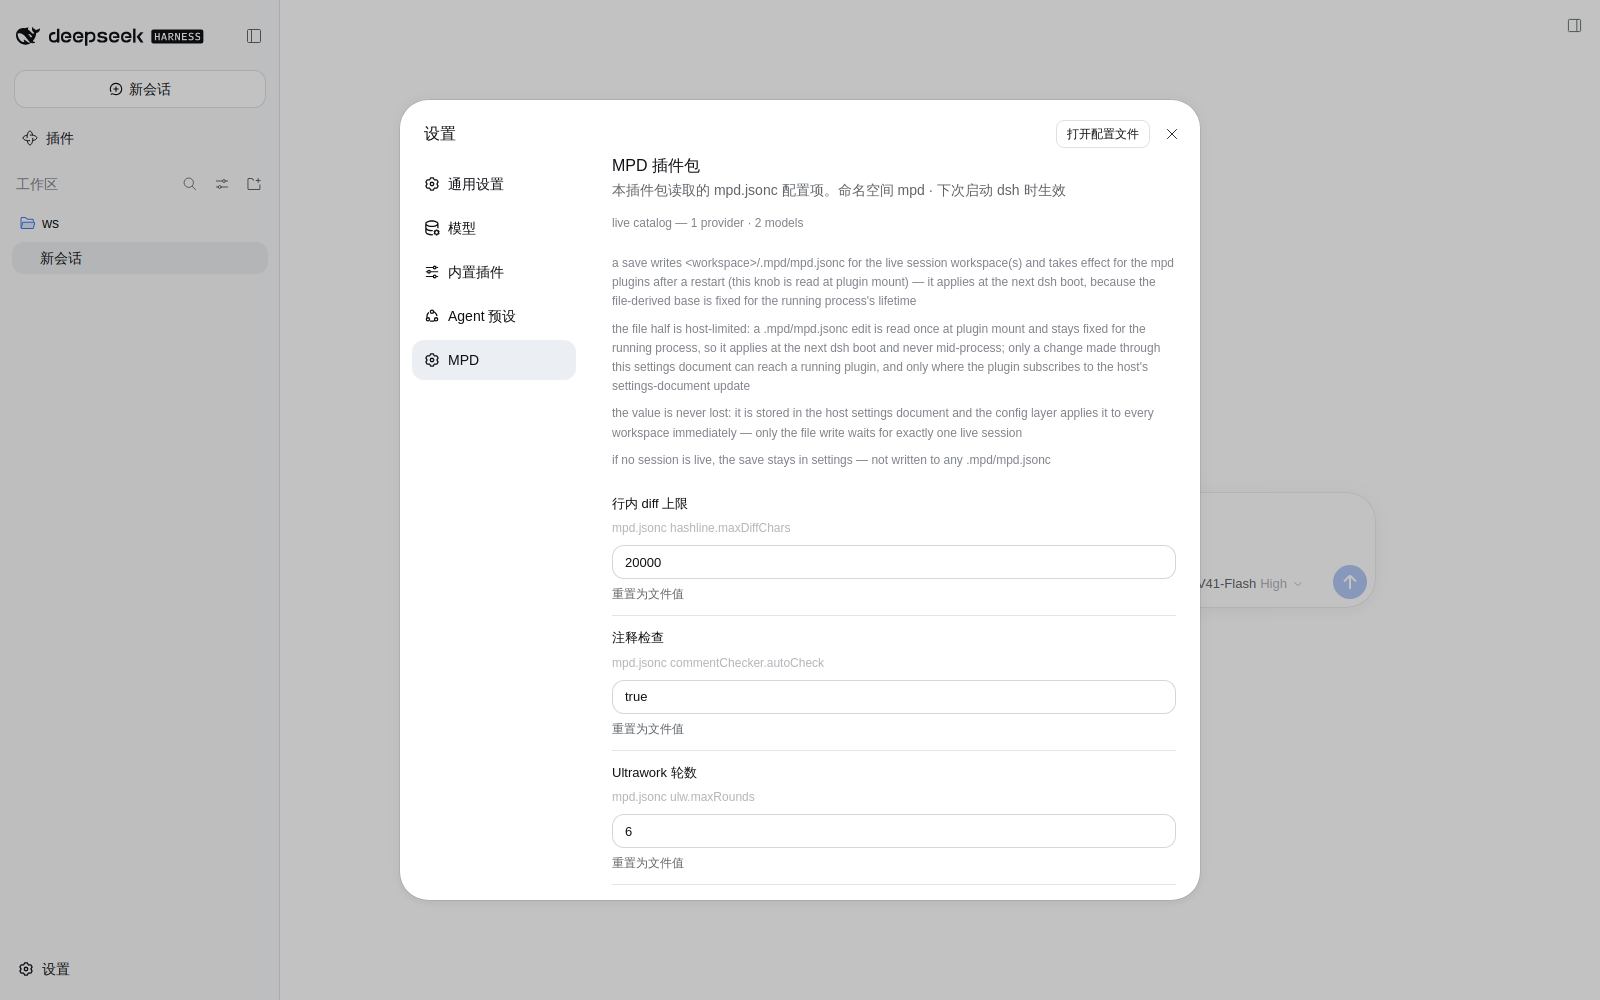
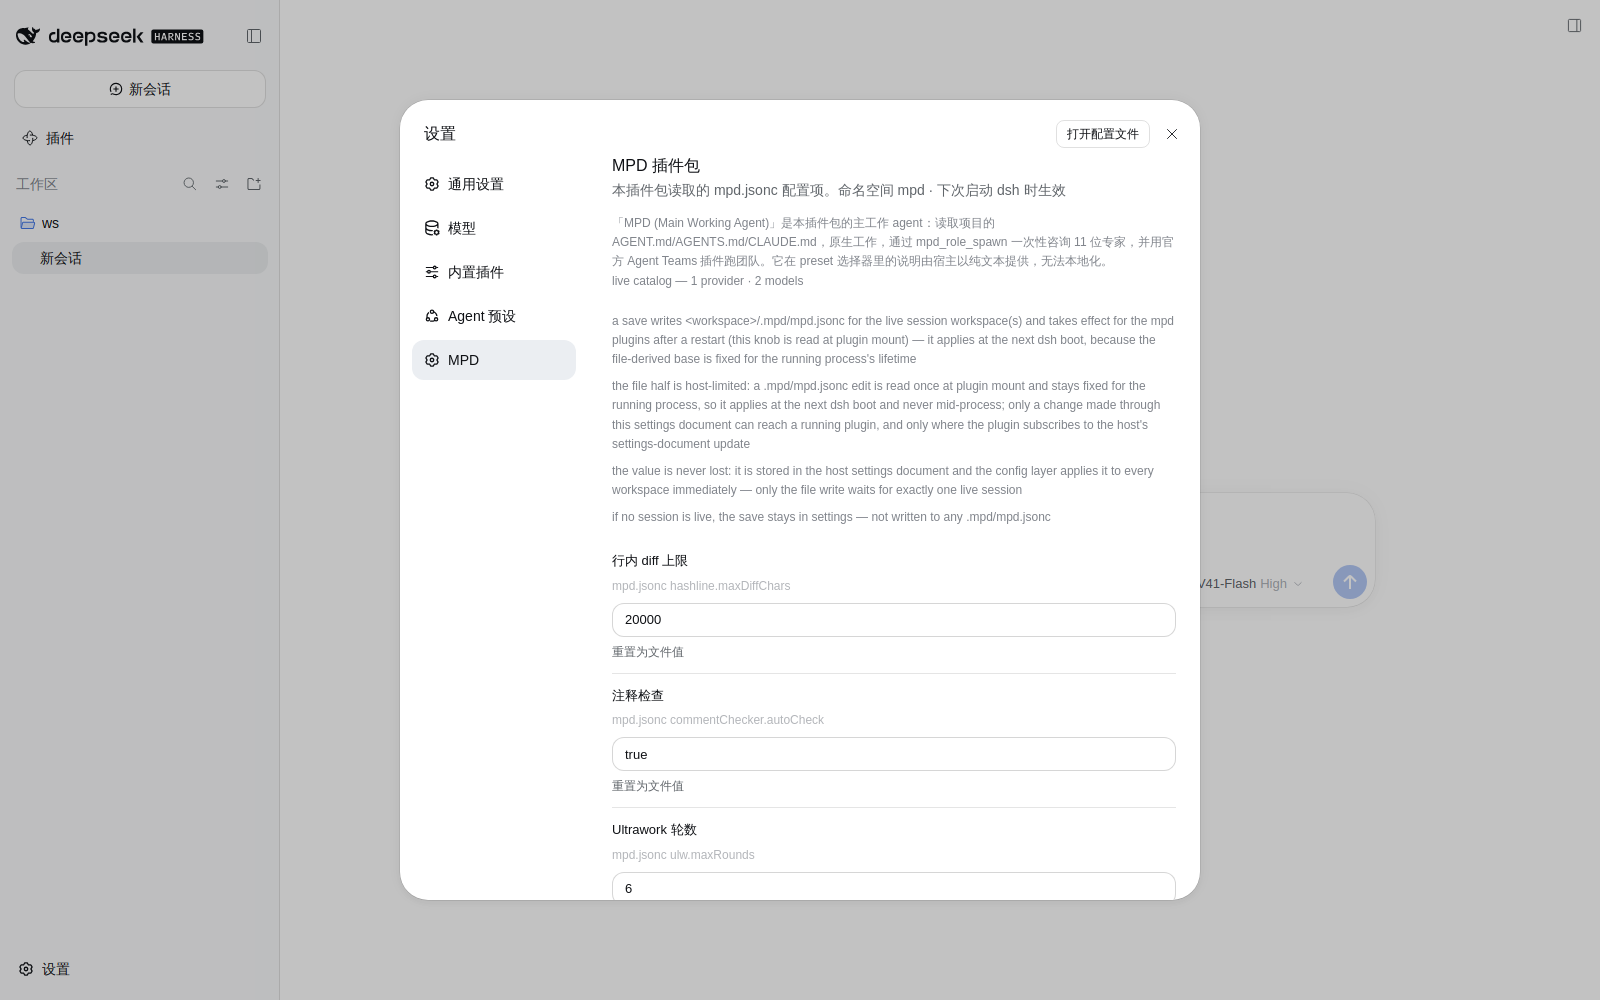
fix(capture): seed the board AFTER the panel opens, and assert the graph it drew
The driver learned the panel's session id at the END of step 06 and then needed it at the START
of step 07 — a precondition that can only hold by luck, and on the re-created container it did
not: the panel rendered its empty state while every step reported success. The seed is now its
own step BETWEEN them, and it asserts the thing that actually matters — the graph is on screen.

Measured while fixing it, and why the step does not DEPEND on the observation: the panel's own
request does not always name a session (`teamPanelRoutes` came back null while a later run drew
`ranks=4 edges=4`), because the poll had not answered at the instant step 06 sampled it. So the
step uses two routes to the same guarantee — step 06's preamble seeds the board for EVERY
session the store lists, and when the panel's own route is known that session is seeded directly
too, which closes the race for one created after the preamble ran. Zero drawn nodes is now a
FAILURE here rather than an empty screenshot three steps later.

The Chinese run reports the new `teamPanelNodesAfterSeed: 6`, `ok: true`, all twelve checks.

Changed region(s): [[0.375, 0.217, 0.7188, 0.868]]

diff --git a/packages/mpd-bundle-plugin/client.js b/packages/mpd-bundle-plugin/client.js
@@ -5946,6 +5946,8 @@ window.__ModuleLoader__.load({ id: "@mpd-dsh/settings-card", factory: // mpd set
         { style: SKIN.form },
         createElement("h3", { style: SKIN.title }, t("title")),
         createElement("p", { style: SKIN.description }, t("intro")),
+        // The preset explanation sits beside the intro: same hint treatment, one extra sentence.
+        createElement("p", { style: SKIN.helpText, "data-mpd-preset-about": "1" }, t("presetAbout")),
         disabled
           ? createElement("p", { style: SKIN.note }, t("readOnly"))
           : null,
@@ -5999,6 +6001,17 @@ window.__ModuleLoader__.load({ id: "@mpd-dsh/settings-card", factory: // mpd set
       nav: "MPD",
       title: "MPD bundle",
       intro: "The mpd.jsonc knobs this bundle's plugins read. namespace mpd · applies at the next dsh boot",
+      // WHAT THIS BUNDLE'S PRESET IS — carried HERE because the preset picker cannot localize it.
+      //
+      // MEASURED on the installed harness (2026-10-06): a preset's `name`/`description` are plain
+      // strings rendered verbatim by `dsh-client-ui-agent-preset`; only the harness's OWN four presets
+      // are localized, through a FIXED id table (`BUILT_IN_PRESET_KEYS = { standard, ptc, minimal,
+      // cordis }`) whose values are keys in the host client's own dictionary. A third-party preset has
+      // no key and no slot, and §6 forbids patching the host's client code — so the MPD preset's own
+      // English sentence stays English in every language. This row is the localized explanation on a
+      // surface this bundle DOES own.
+      presetAbout:
+        "The \"MPD (Main Working Agent)\" preset is this bundle's main agent: it reads the project's AGENT.md/AGENTS.md/CLAUDE.md, works natively, consults the 11 specialists through mpd_role_spawn, and runs teams on the official Agent Teams plugin. Its description in the preset picker is supplied by the harness as plain text and is not localizable.",
       save: "Save",
       discard: "Discard",
       reset: "Reset to the file value",
@@ -6012,6 +6025,9 @@ window.__ModuleLoader__.load({ id: "@mpd-dsh/settings-card", factory: // mpd set
       nav: "MPD",
       title: "MPD 插件包",
       intro: "本插件包读取的 mpd.jsonc 配置项。命名空间 mpd · 下次启动 dsh 时生效",
+      // 这个 bundles 的 preset 是什么 —— 放在这里，是因为 preset 选择器无法本地化它。
+      presetAbout:
+        "「MPD (Main Working Agent)」是本插件包的主工作 agent：读取项目的 AGENT.md/AGENTS.md/CLAUDE.md，原生工作，通过 mpd_role_spawn 一次性咨询 11 位专家，并用官方 Agent Teams 插件跑团队。它在 preset 选择器里的说明由宿主以纯文本提供，无法本地化。",
       save: "保存",
       discard: "放弃",
       reset: "重置为文件值",
@@ -9163,6 +9179,8 @@ window.__ModuleLoader__.load({ id: "@mpd-dsh/mpd", factory: // mpd bundle web cl
         { style: SKIN.form },
         createElement("h3", { style: SKIN.title }, t("title")),
         createElement("p", { style: SKIN.description }, t("intro")),
+        // The preset explanation sits beside the intro: same hint treatment, one extra sentence.
+        createElement("p", { style: SKIN.helpText, "data-mpd-preset-about": "1" }, t("presetAbout")),
         disabled
           ? createElement("p", { style: SKIN.note }, t("readOnly"))
           : null,
@@ -9216,6 +9234,17 @@ window.__ModuleLoader__.load({ id: "@mpd-dsh/mpd", factory: // mpd bundle web cl
       nav: "MPD",
       title: "MPD bundle",
       intro: "The mpd.jsonc knobs this bundle's plugins read. namespace mpd · applies at the next dsh boot",
+      // WHAT THIS BUNDLE'S PRESET IS — carried HERE because the preset picker cannot localize it.
+      //
+      // MEASURED on the installed harness (2026-10-06): a preset's `name`/`description` are plain
+      // strings rendered verbatim by `dsh-client-ui-agent-preset`; only the harness's OWN four presets
+      // are localized, through a FIXED id table (`BUILT_IN_PRESET_KEYS = { standard, ptc, minimal,
+      // cordis }`) whose values are keys in the host client's own dictionary. A third-party preset has
+      // no key and no slot, and §6 forbids patching the host's client code — so the MPD preset's own
+      // English sentence stays English in every language. This row is the localized explanation on a
+      // surface this bundle DOES own.
+      presetAbout:
+        "The \"MPD (Main Working Agent)\" preset is this bundle's main agent: it reads the project's AGENT.md/AGENTS.md/CLAUDE.md, works natively, consults the 11 specialists through mpd_role_spawn, and runs teams on the official Agent Teams plugin. Its description in the preset picker is supplied by the harness as plain text and is not localizable.",
       save: "Save",
       discard: "Discard",
       reset: "Reset to the file value",
@@ -9229,6 +9258,9 @@ window.__ModuleLoader__.load({ id: "@mpd-dsh/mpd", factory: // mpd bundle web cl
       nav: "MPD",
       title: "MPD 插件包",
       intro: "本插件包读取的 mpd.jsonc 配置项。命名空间 mpd · 下次启动 dsh 时生效",
+      // 这个 bundles 的 preset 是什么 —— 放在这里，是因为 preset 选择器无法本地化它。
+      presetAbout:
+        "「MPD (Main Working Agent)」是本插件包的主工作 agent：读取项目的 AGENT.md/AGENTS.md/CLAUDE.md，原生工作，通过 mpd_role_spawn 一次性咨询 11 位专家，并用官方 Agent Teams 插件跑团队。它在 preset 选择器里的说明由宿主以纯文本提供，无法本地化。",
       save: "保存",
       discard: "放弃",
       reset: "重置为文件值",

diff --git a/packages/mpd-bundle-plugin/src/settings-card.ts b/packages/mpd-bundle-plugin/src/settings-card.ts
@@ -1683,6 +1683,8 @@
         { style: SKIN.form },
         createElement("h3", { style: SKIN.title }, t("title")),
         createElement("p", { style: SKIN.description }, t("intro")),
+        // The preset explanation sits beside the intro: same hint treatment, one extra sentence.
+        createElement("p", { style: SKIN.helpText, "data-mpd-preset-about": "1" }, t("presetAbout")),
         disabled
           ? createElement("p", { style: SKIN.note }, t("readOnly"))
           : null,
@@ -1736,6 +1738,17 @@
       nav: "MPD",
       title: "MPD bundle",
       intro: "The mpd.jsonc knobs this bundle's plugins read. namespace mpd · applies at the next dsh boot",
+      // WHAT THIS BUNDLE'S PRESET IS — carried HERE because the preset picker cannot localize it.
+      //
+      // MEASURED on the installed harness (2026-10-06): a preset's `name`/`description` are plain
+      // strings rendered verbatim by `dsh-client-ui-agent-preset`; only the harness's OWN four presets
+      // are localized, through a FIXED id table (`BUILT_IN_PRESET_KEYS = { standard, ptc, minimal,
+      // cordis }`) whose values are keys in the host client's own dictionary. A third-party preset has
+      // no key and no slot, and §6 forbids patching the host's client code — so the MPD preset's own
+      // English sentence stays English in every language. This row is the localized explanation on a
+      // surface this bundle DOES own.
+      presetAbout:
+        "The \"MPD (Main Working Agent)\" preset is this bundle's main agent: it reads the project's AGENT.md/AGENTS.md/CLAUDE.md, works natively, consults the 11 specialists through mpd_role_spawn, and runs teams on the official Agent Teams plugin. Its description in the preset picker is supplied by the harness as plain text and is not localizable.",
       save: "Save",
       discard: "Discard",
       reset: "Reset to the file value",
@@ -1749,6 +1762,9 @@
       nav: "MPD",
       title: "MPD 插件包",
       intro: "本插件包读取的 mpd.jsonc 配置项。命名空间 mpd · 下次启动 dsh 时生效",
+      // 这个 bundles 的 preset 是什么 —— 放在这里，是因为 preset 选择器无法本地化它。
+      presetAbout:
+        "「MPD (Main Working Agent)」是本插件包的主工作 agent：读取项目的 AGENT.md/AGENTS.md/CLAUDE.md，原生工作，通过 mpd_role_spawn 一次性咨询 11 位专家，并用官方 Agent Teams 插件跑团队。它在 preset 选择器里的说明由宿主以纯文本提供，无法本地化。",
       save: "保存",
       discard: "放弃",
       reset: "重置为文件值",

diff --git a/docs/plan-webui-tui-i18n.md b/docs/plan-webui-tui-i18n.md
@@ -308,6 +308,42 @@ screenshots. A capture that predates the change it claims to verify is a stale-e
    §11 makes the pack a release step and the closure gate reports it as its own
    `CONTENT-DRIFT-EXPECTED` class (exit 0).
 
+### 8-i18n-gap. R4's boundary: the preset's name and description are the HARNESS's to localize
+
+Reported from the Chinese UI: MPD's preset description is still English. **Confirmed, and it is a
+harness boundary rather than a string this bundle forgot.** Three measurements, each from the
+INSTALLED harness:
+
+1. **The copy is authored by this bundle as plain text.** `presets/mpd.patch.yml` carries
+   `name: "MPD (Main Working Agent)"` and the long `description:` sentence, and the preset row's
+   schema accepts exactly `z.object({ id, name: z.string(), description: z.string(), order, plugins })`
+   (`dsh-agent-preset`) — there is no `descriptions`/locale field to fill in.
+2. **The server serves that string verbatim and the client renders it verbatim.**
+   `dsh-client-ui-agent-preset` renders `preset.description` and `preset.name ?? preset.id` directly;
+   it never routes a description through `t()`.
+3. **The localization the harness DOES have covers only its own presets.**
+   `BUILT_IN_PRESET_KEYS = { standard: {name: "presetStandardName", description:
+   "presetStandardDescription"}, ptc: …, minimal: …, cordis: … }` — a FIXED table keyed by the four
+   built-in preset ids, whose values are keys in the host client's own dictionary
+   (`presetStandardDescription: "包含标准模式的所有能力，…"`). A third-party preset (`mpd`) is not in
+   that table and has no key of its own, so the host falls back to the server's text.
+
+**So there is no supported extension point**: the bundle cannot add a key to `BUILT_IN_PRESET_KEYS`
+(host-owned client code, and §6 forbids patching it), the row schema cannot carry a second language,
+and the client exposes no per-preset description slot. The harness's own four presets are the only
+ones with localized names/descriptions.
+
+**What is left to choose** (a product-copy decision, so it is the user's, not the captain's):
+
+- leave it as English and record the boundary (this section);
+- reword the description to be language-neutral, which loses the specific wording;
+- put the localized explanation on a surface this bundle DOES own — the MPD settings section is
+  already bilingual and is the natural home for "what is this preset", with the preset row keeping a
+  short technical string.
+
+This is also why R4 stays a claim about the surfaces this bundle renders: it does not render the
+preset picker, the composer, or the harness's own settings chrome, and it cannot localize them.
+
 ## 8. Status (updated as the wave lands)
 
 ### 8-zero. The release sweep, run at the end (each failure diagnosed, not assumed)
